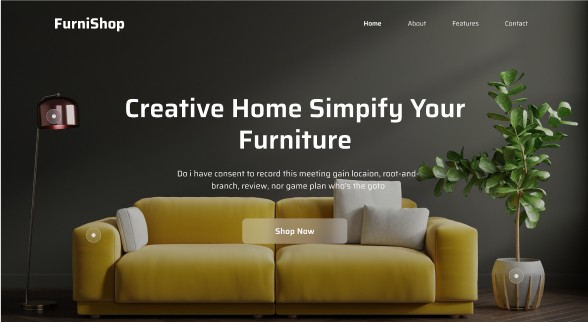
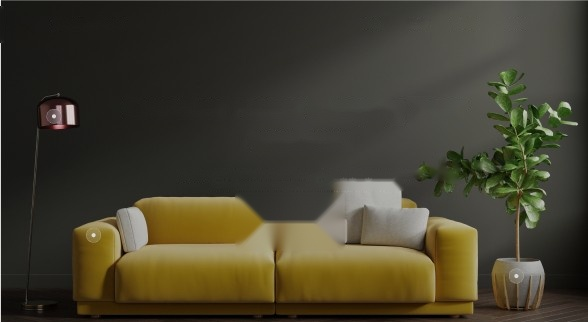
fix: center hero text and remove baked-in text from hero photo
Center the heading, paragraph, and CTA per the design. Replace the
blurred hero background with the same sofa photo, cleaned via OpenCV
inpainting so the design's original text no longer ghosts through.

diff --git a/css/style.css b/css/style.css
@@ -74,33 +74,31 @@ ul {
   background: var(--dark);
 }
 
-/* Background photo lives on a pseudo-element so foreground text stays crisp.
-   NOTE: the shipped hero.jpg was extracted from the design screenshot and has
-   text baked in; a light blur turns it into a clean backdrop. Replace it with a
-   text-free exported photo and you can drop the `filter` blur below. */
+/* Background photo lives on a pseudo-element so foreground text stays crisp. */
 .hero::before {
   content: "";
   position: absolute;
-  inset: -20px; /* bleed so the blur has no soft edges */
+  inset: 0;
   z-index: -2;
   background-image: url("../assets/hero.jpg");
   background-size: cover;
   background-position: center;
   background-repeat: no-repeat;
-  filter: blur(11px) brightness(0.8);
 }
 
-/* Dark gradient for text contrast (left-heavy, like the design) */
+/* Dark overlay for text contrast — darker toward the top where the heading
+   sits, so the centered white text stays readable over the photo. */
 .hero::after {
   content: "";
   position: absolute;
   inset: 0;
   z-index: -1;
   background: linear-gradient(
-    100deg,
-    rgba(18, 22, 20, 0.92) 0%,
-    rgba(18, 22, 20, 0.68) 45%,
-    rgba(18, 22, 20, 0.55) 100%
+    180deg,
+    rgba(18, 22, 20, 0.78) 0%,
+    rgba(18, 22, 20, 0.5) 40%,
+    rgba(18, 22, 20, 0.35) 70%,
+    rgba(18, 22, 20, 0.45) 100%
   );
 }
 
@@ -172,19 +170,27 @@ ul {
   flex: 1;
   display: flex;
   align-items: center;
+  justify-content: center;
   padding-block: 3rem 8rem;
+  text-align: center;
+}
+
+.hero__content .container {
+  display: flex;
+  flex-direction: column;
+  align-items: center;
 }
 
 .hero__title {
   font-size: clamp(2.4rem, 6vw, 4rem);
   font-weight: 800;
   line-height: 1.08;
-  max-width: 12ch;
+  max-width: 16ch;
   margin-bottom: 1.25rem;
 }
 
 .hero__text {
-  max-width: 44ch;
+  max-width: 46ch;
   font-size: 0.95rem;
   color: var(--text-muted);
   margin-bottom: 2rem;
@@ -313,7 +319,7 @@ ul {
 
   .hero__content {
     padding-block: 2rem 7rem;
-    text-align: left;
+    text-align: center;
   }
 
   .stats__grid {

diff --git a/README.md b/README.md
@@ -29,10 +29,10 @@ python -m http.server 8000
 
 ## Notes on assets
 
-`assets/hero.jpg` was extracted from the supplied design screenshot so the page
-renders out of the box. For a **pixel-perfect** result, replace it with the
-clean, text-free exported sofa photo (same filename) — the page text is drawn in
-HTML, so a source image without baked-in text will look best.
+`assets/hero.jpg` was extracted from the supplied design screenshot, which had
+the design's text baked into the photo itself. That text was removed with
+OpenCV inpainting (`cv2.inpaint`, TELEA algorithm) so the same sofa photo could
+be shown sharp behind the real HTML text without any ghosting.
 
 ## Responsive behaviour
 
